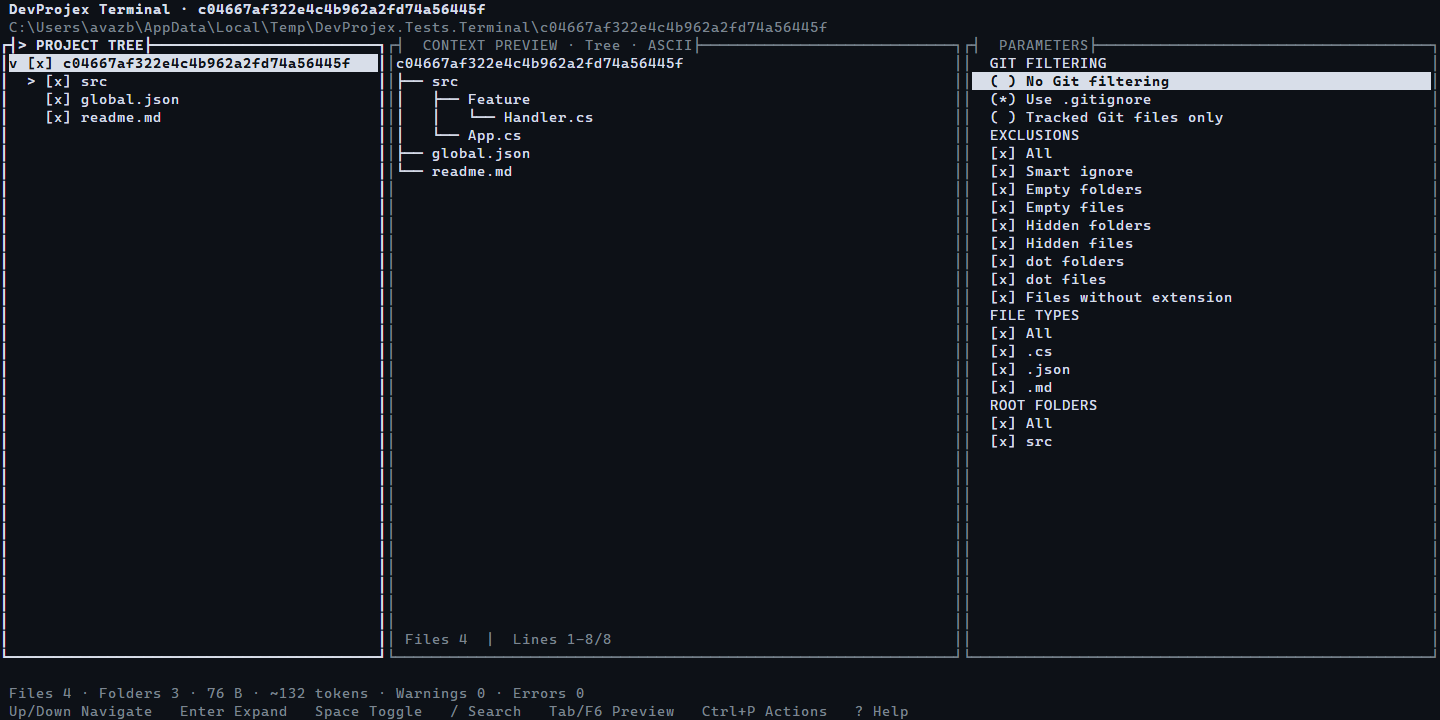
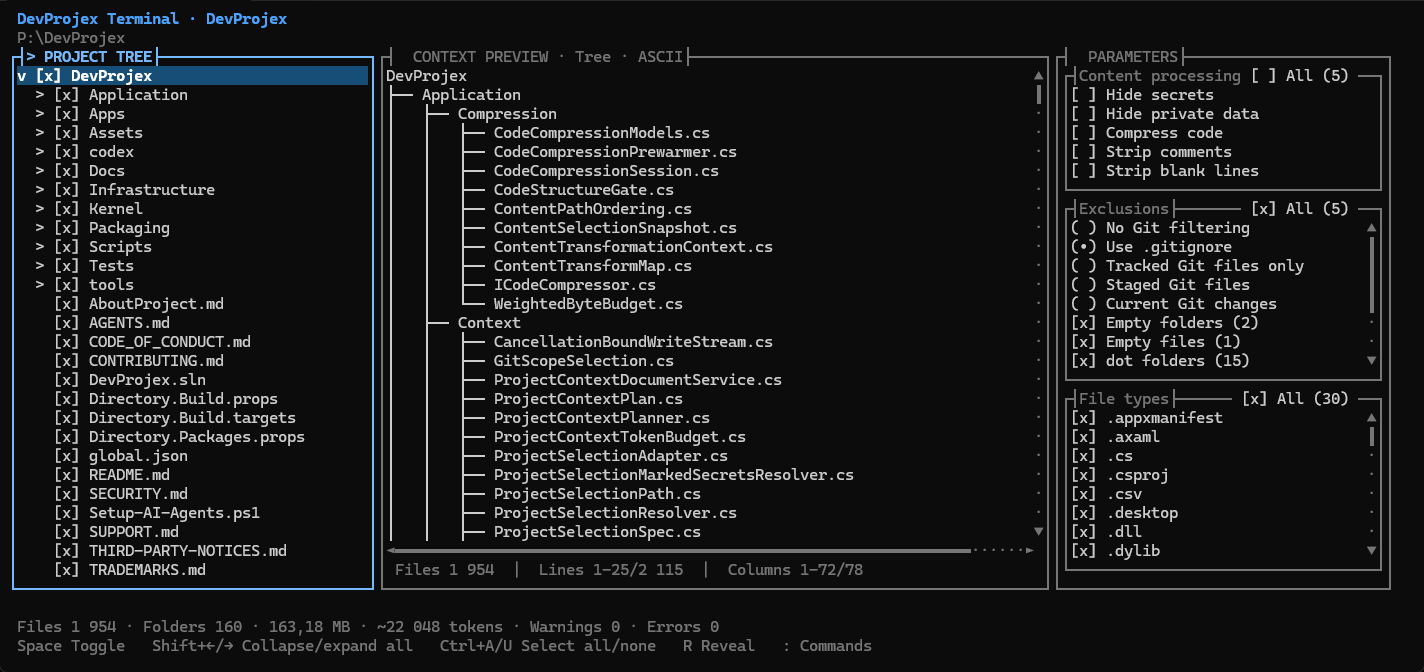
update tui screenshots

Changed region(s): [[0.0, 0.0, 1.0, 1.0]]

diff --git a/Docs/TerminalWorkspace.md b/Docs/TerminalWorkspace.md
@@ -168,6 +168,8 @@ keyboard shortcuts and the workspace command line, then restore the previous pan
 when canceled. Workspace palette rows show the corresponding `:` syntax when the
 action has a command-line form.
 
+![DevProjex Terminal Action Palette](Media/terminal-workspace/action-palette.png)
+
 Changing checked nodes updates the selection projection without rescanning the
 filesystem. Structural changes use the canonical refresh pipeline. Preview
 refresh is cancelable, debounced, and bounded for large projects.
@@ -212,6 +214,13 @@ invalid token reports its position and up to three similar candidates. Arguments
 containing whitespace can use single or double quotes; path completion inserts
 and preserves the required quotes automatically.
 Welcome exposes the focused subset `recent`, `language`, `help`, and `quit`.
+
+The input line exposes the active argument schema before execution and renders an
+inline ghost suffix as soon as a token can be completed:
+
+| Live argument schema | Ghost completion |
+|---|---|
+| ![Workspace command argument schema](Media/terminal-workspace/command-line-schema.png) | ![Workspace command ghost completion](Media/terminal-workspace/command-line-completion.png) |
 
 | Syntax | Session action |
 |---|---|
@@ -372,6 +381,15 @@ uses project-relative file headings. Desktop and exact-export text trees show th
 root path once, followed immediately by the real top-level children. The regular
 TUI tree uses its named project-root node instead of a separate address line.
 Unicode and `--plain` connectors carry the same tree structure.
+
+The following views keep the same live project selection and change only the tree
+format:
+
+![Markdown tree preview](Media/terminal-workspace/format-markdown.png)
+
+![JSON tree preview](Media/terminal-workspace/format-json.png)
+
+![XML tree preview](Media/terminal-workspace/format-xml.png)
 
 Large contexts use the shared preview document abstractions. Small documents
 stay in memory; larger documents use temporary file-backed UTF-8 storage with
